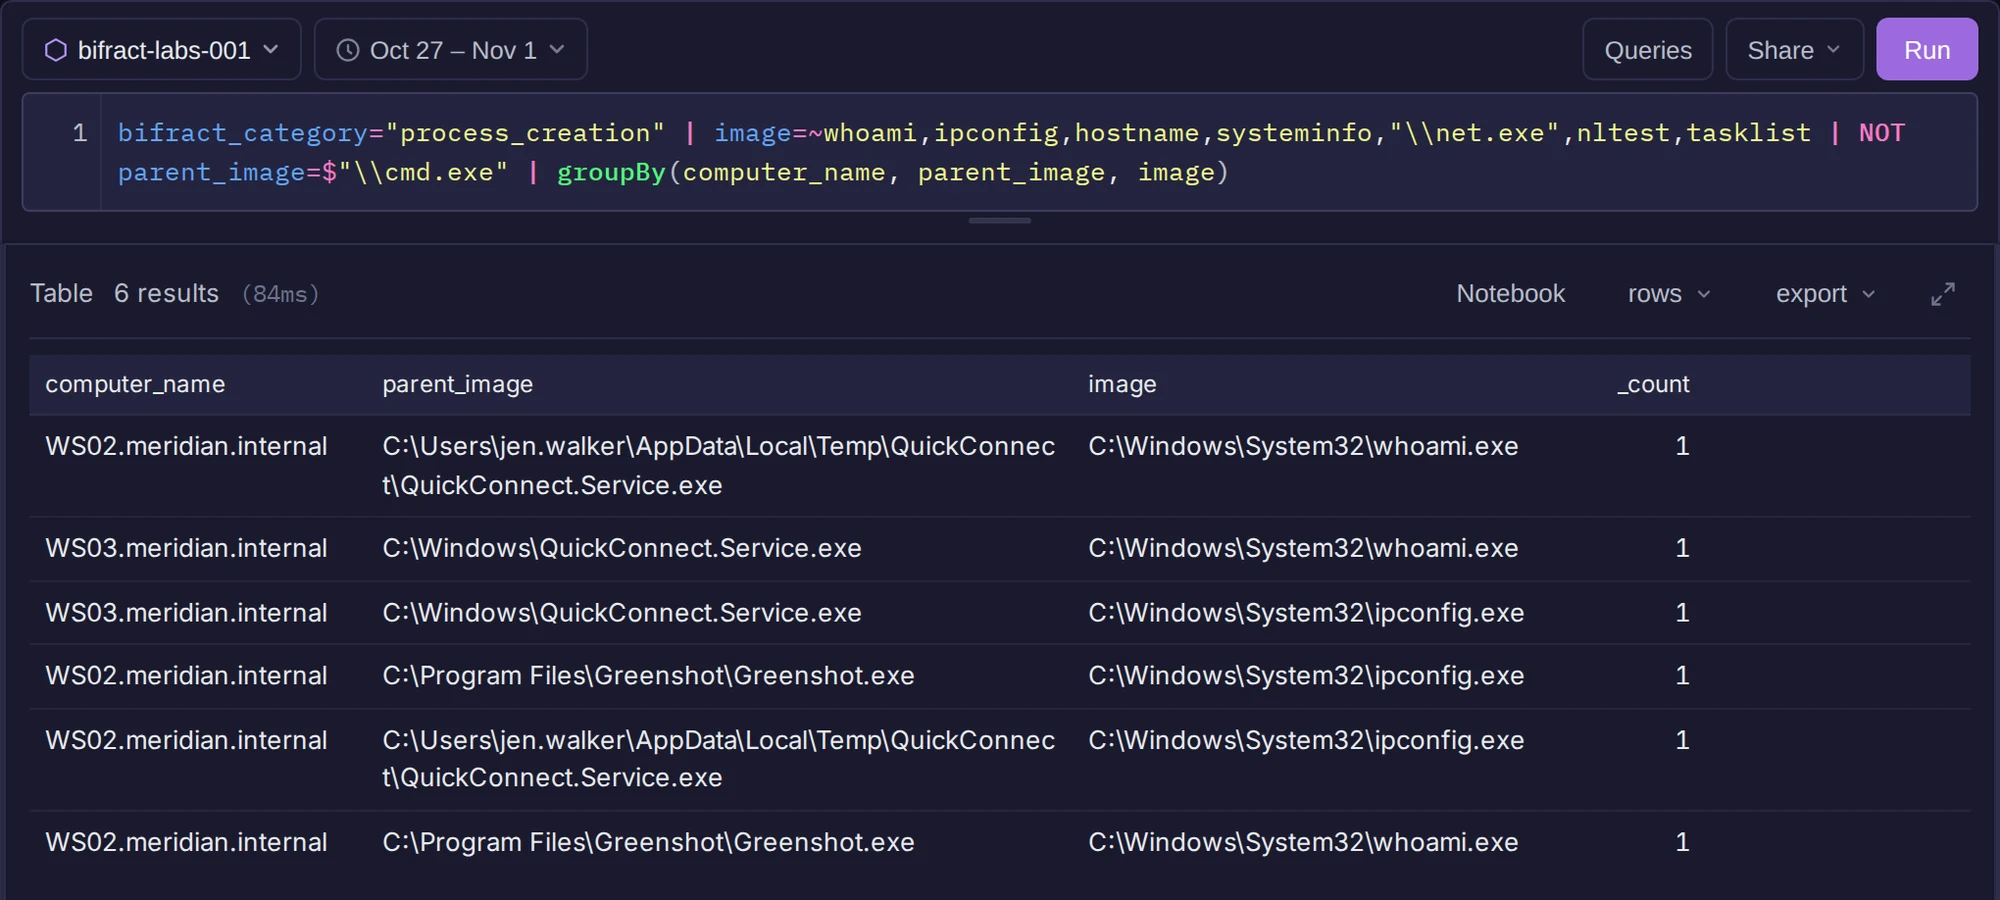
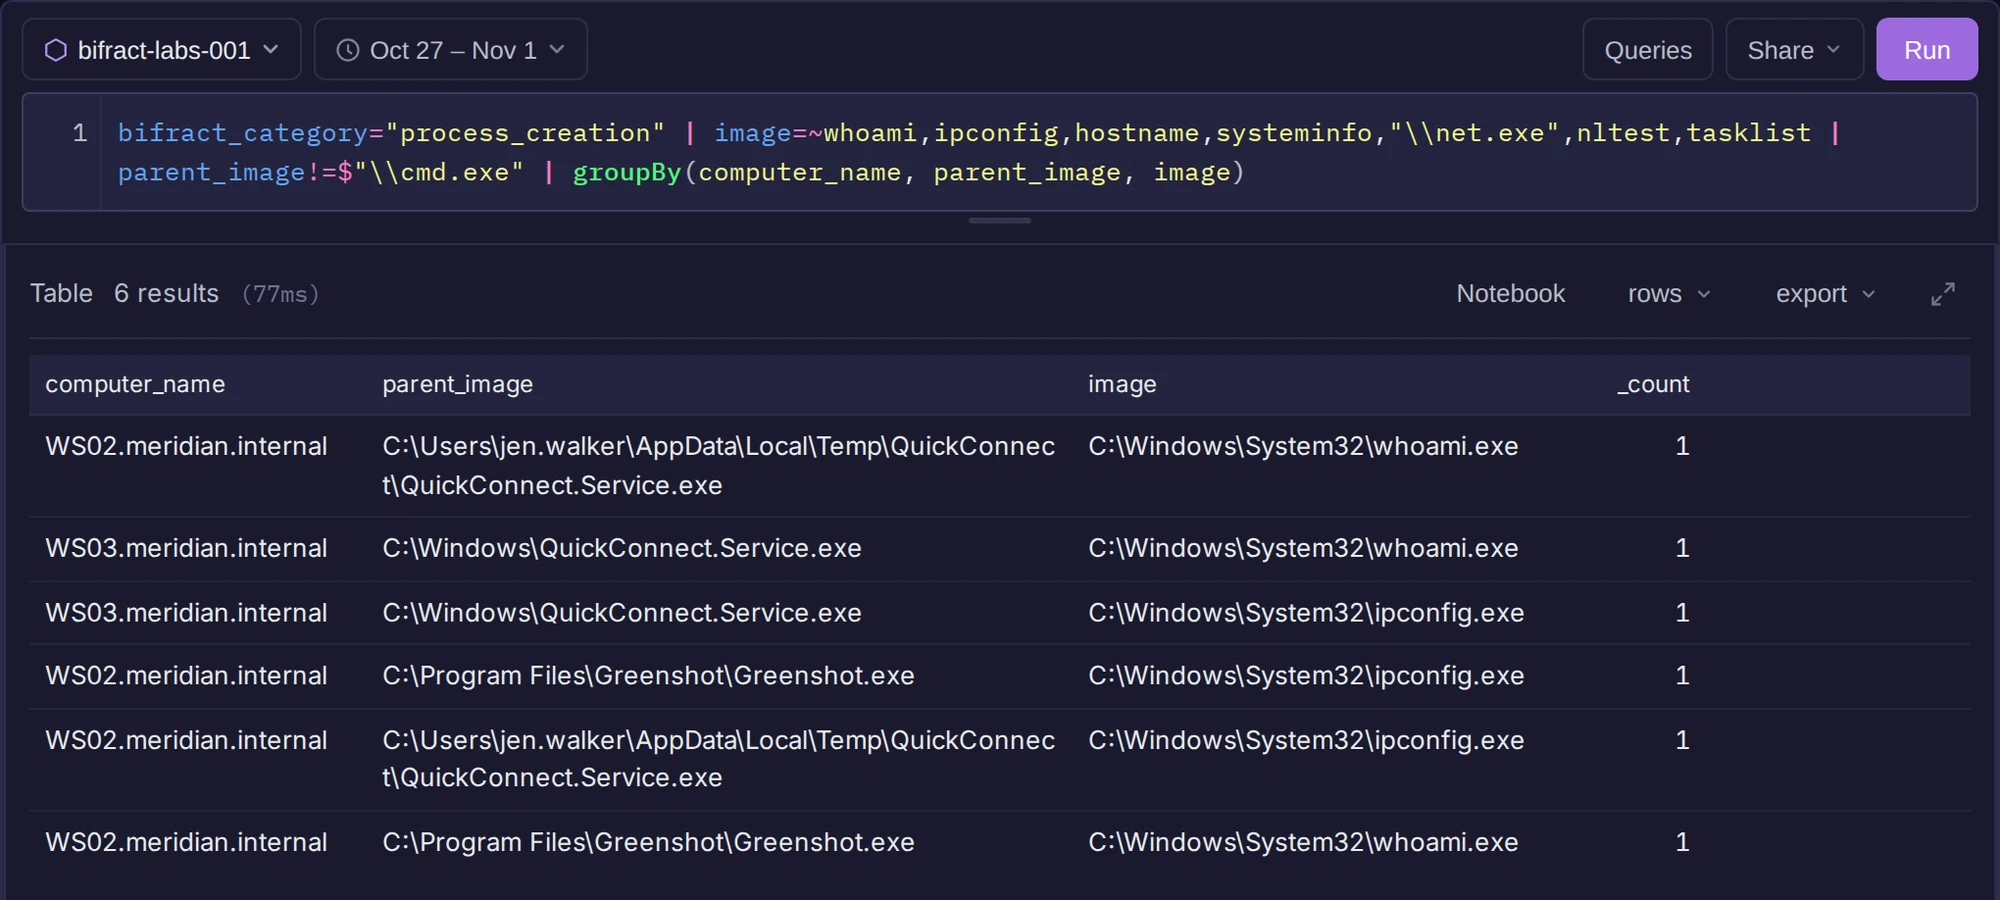
Use Score range for network models and newer BQL operators
Setup scores the beacon and long connection models with Score range,
so chapter 1 shows their pages instead of the editor (scores 0.895 and
0.851). Use !=$ instead of NOT or a regex, drop the ptg() direction tip
and the in() binding caveat, and recapture the six affected shots. All
38 guide queries pass on Bifract main a72503a.

Changed region(s): [[0.155, 0.1556, 0.62, 0.2178], [0.93, 0.1244, 0.961, 0.1556], [0.124, 0.3111, 0.155, 0.3422]]

diff --git a/guide/001/walkthrough/04-hands-on-keyboard.md b/guide/001/walkthrough/04-hands-on-keyboard.md
@@ -13,7 +13,7 @@ title: "4. Hands on keyboard"
 Admins and scripts run discovery tools all the time, almost always through `cmd.exe`. On WS02, RustDesk alone runs `tasklist` through `cmd /C` about 48,000 times. So I look for discovery tools whose parent **isn't** a shell:
 
 ```bql
-bifract_category="process_creation" | image=~whoami,ipconfig,hostname,systeminfo,"\\net.exe",nltest,tasklist | NOT parent_image=$"\\cmd.exe" | groupBy(computer_name, parent_image, image)
+bifract_category="process_creation" | image=~whoami,ipconfig,hostname,systeminfo,"\\net.exe",nltest,tasklist | parent_image!=$"\\cmd.exe" | groupBy(computer_name, parent_image, image)
 ```
 <!-- shot: q010-discovery | Discovery tools started directly by something other than cmd.exe. | rows=6 -->
 
@@ -35,17 +35,17 @@ The implants also started `cmd.exe` as a wrapper. To see what each wrapper ran, 
 
 ```bql
 let &wrappers := bifract_category="process_creation" parent_image=~QuickConnect,Greenshot image=$"\\cmd.exe" | table(process_guid);
-bifract_category="process_creation" | in(parent_process_guid, &wrappers) | NOT image=$"\\conhost.exe" | groupBy(computer_name, parent_image, parent_commandline, image)
+bifract_category="process_creation" | in(parent_process_guid, &wrappers) | image!=$"\\conhost.exe" | groupBy(computer_name, parent_image, parent_commandline, image)
 ```
 <!-- shot: q011-wrappers | What the implants' cmd.exe wrappers ran. | rows=4 -->
 
-`cmd.exe /d /s /c systeminfo.exe` ran `systeminfo.exe` on WS02 (twice) and WS03. The last row is a `for` loop that runs `net.exe` eight times: four `net use` attempts against WS03, each after a `net use /delete`. [Chapter 6](06-credential-access.md) covers it.
+`cmd.exe /d /s /c systeminfo.exe` ran `systeminfo.exe` on WS02 (twice) and WS03. The other row is a `for` loop that runs `net.exe` eight times: four `net use` attempts against WS03, each after a `net use /delete`. [Chapter 6](06-credential-access.md) covers it.
 
 !!! finding "Finding · Q011"
     Operating system inventory came from **cmd.exe → systeminfo.exe**.
 
 !!! tip "Bindings"
-    `let &name := ...;` runs a query and keeps its result for the next one. End the binding with `table(field)`, because `in()` can't use the `_count` column a `groupBy()` adds.
+    `let &name := ...;` runs a query and keeps its result for the next one. Here `in()` matches each process's parent GUID against that list.
 
 ## The support tool <span class="q-ref">Q012</span> { #q012 }
 
@@ -71,7 +71,7 @@ bifract_category="network_connect" | image=~QuickConnect,rustdesk | groupBy(comp
 Back to the Run dialog history from chapter 2:
 
 ```bql
-event_id="13" target_object=~"\\RunMRU\\" | target_object!=/MRUList$/ | sort(timestamp) | table(timestamp, computer_name, image, details)
+event_id="13" target_object=~"\\RunMRU\\" | target_object!=$"MRUList" | sort(timestamp) | table(timestamp, computer_name, image, details)
 ```
 <!-- shot: q013-runmru | The second and third Run entries come after RustDesk connects. | rows=3 -->
 

diff --git a/guide/001/walkthrough/01-baselines.md b/guide/001/walkthrough/01-baselines.md
@@ -40,25 +40,25 @@ Malware usually calls home on a timer, and people don't. That regular check-in i
 
 The `outbound_beacons` model scores every internal to external pair by how regular its timing and sizes are.
 
-Network models score a rolling window that ends now, and they can't be backfilled, so the model's page stays empty for a dataset from the past. Score the lab on demand instead: open the model, click **Edit**, open the **Scores** tab, and pick a window that reaches back to Oct 27, 2026 (**Last 30 Days** while the lab is recent).
+Network models score a rolling window that ends now, so a dataset from the past needs a one-time **Score range** ([setup](../setup.md#add-the-models), step 4). Then open the model:
 
-<!-- shot: model-beacons | `outbound_beacons`: two pairs out of 949 score above 0.8, both from WS02. | narrow -->
+<!-- shot: model-beacons | `outbound_beacons`: two pairs out of 949 score above 0.8, both from WS02. -->
 
 Two pairs out of 949 cross the threshold, and both come from `10.1.10.22`, which is WS02:
 
 | Score | Destination | Connections |
 |---|---|---|
-| 0.916 | `203.0.113.87:8888` | 2,496 |
-| 0.875 | `192.0.2.146:21116` | 2,779 |
+| 0.895 | `203.0.113.87:8888` | 2,496 |
+| 0.851 | `192.0.2.146:21116` | 2,779 |
 
 !!! tip "Tuning out the known good"
     The model's source query drops time sync (`dst_port!="123"`), multicast and internal destinations. Without that, DC01's NTP syncs top the list, because they're regular by design.
 
 ## What stays connected too long?
 
-Interactive remote sessions hold a connection open. The `outbound_long_connections` model ranks outbound pairs by how long they stay up. Open it the same way: **Edit**, then **Scores**.
+Interactive remote sessions hold a connection open. The `outbound_long_connections` model ranks outbound pairs by how long they stay up:
 
-<!-- shot: model-long-conn | `outbound_long_connections`: the WS02 to 192.0.2.146 RustDesk pair ranks first. | narrow -->
+<!-- shot: model-long-conn | `outbound_long_connections`: the WS02 to 192.0.2.146 RustDesk pair ranks first. -->
 
 The top pair is the same `192.0.2.146` destination the beacon model found, on RustDesk's port 21116. All three models point at WS02.
 

diff --git a/guide/001/setup.md b/guide/001/setup.md
@@ -34,7 +34,8 @@ With the `bifract-labs-001` fractal selected:
 
 1. **Add the remote management tool bundle.** In **Exchange**, open **Remote management tool hunting**, click **Add all**, then **Add 5 items**. This adds the `rmm_users` model.
 2. **Import the lab models.** Download [remote_tools_first_seen.yaml](https://github.com/zaneGittins/bifract-labs/raw/main/labs/001/bifract/models/remote_tools_first_seen.yaml), [outbound_beacons.yaml](https://github.com/zaneGittins/bifract-labs/raw/main/labs/001/bifract/models/outbound_beacons.yaml) and [outbound_long_connections.yaml](https://github.com/zaneGittins/bifract-labs/raw/main/labs/001/bifract/models/outbound_long_connections.yaml), then use **Analytics**, **Import YAML** for each.
-3. **Backfill two of them.** Open `rmm_users`, click **Backfill**, pick **Custom range** from **Oct 27, 2026** to **Nov 1, 2026**, and start it. Do the same for `remote_tools_first_seen`. The two network models can't be backfilled; [chapter 1](walkthrough/01-baselines.md) shows how to score them.
+3. **Backfill two of them.** Open `rmm_users`, click **Backfill**, pick **Custom range** from **Oct 27, 2026** to **Nov 1, 2026**, and start it. Do the same for `remote_tools_first_seen`.
+4. **Score the network models.** Open `outbound_beacons` and click **Score range**. If you added the lab from the Exchange, the range is already filled in. Otherwise enter **2026-10-27 00:00** to **2026-10-31 00:00**. Click **Score range** again. Do the same for `outbound_long_connections`.
 
 Backfilled models show **Stale** and network models show **Learning**. That's expected for a dataset from the past.
 

diff --git a/guide/001/walkthrough/03-loader.md b/guide/001/walkthrough/03-loader.md
@@ -88,9 +88,6 @@ ptg(start="9D045BEA-5269-6AE3-CC3D-000000001100", direction=forward, depth=1)
 !!! finding "Finding · Q009"
     The loader started **QuickConnect.Service.exe** at 14:04:30. That's the first foothold.
 
-!!! tip "Give ptg() a direction"
-    For this seed, `ptg()` with the default `direction=both` can be very slow. Pass `direction=forward` (or `backward`).
-
 ## See everything it touched
 
 `pgr()` goes further than `ptg()`. It rebuilds the process tree, scores each file, network and DNS action by how rare it is on other hosts, and hides the everyday noise. Start it on the loader and draw it with `pgraph()`:

diff --git a/guide/001/walkthrough/02-initial-access.md b/guide/001/walkthrough/02-initial-access.md
@@ -13,7 +13,7 @@ title: "2. Initial access"
 When a user presses ++win+r++ and runs something, Explorer writes the command to the `RunMRU` registry key. Sysmon logs the write as event 13 (registry value set).
 
 ```bql
-event_id="13" target_object=~"\\RunMRU\\" | target_object!=/MRUList$/ | sort(timestamp) | table(timestamp, computer_name, image, details)
+event_id="13" target_object=~"\\RunMRU\\" | target_object!=$"MRUList" | sort(timestamp) | table(timestamp, computer_name, image, details)
 ```
 <!-- shot: q003-runmru | Everything typed into the Run dialog, oldest first. | rows=3 -->
 
